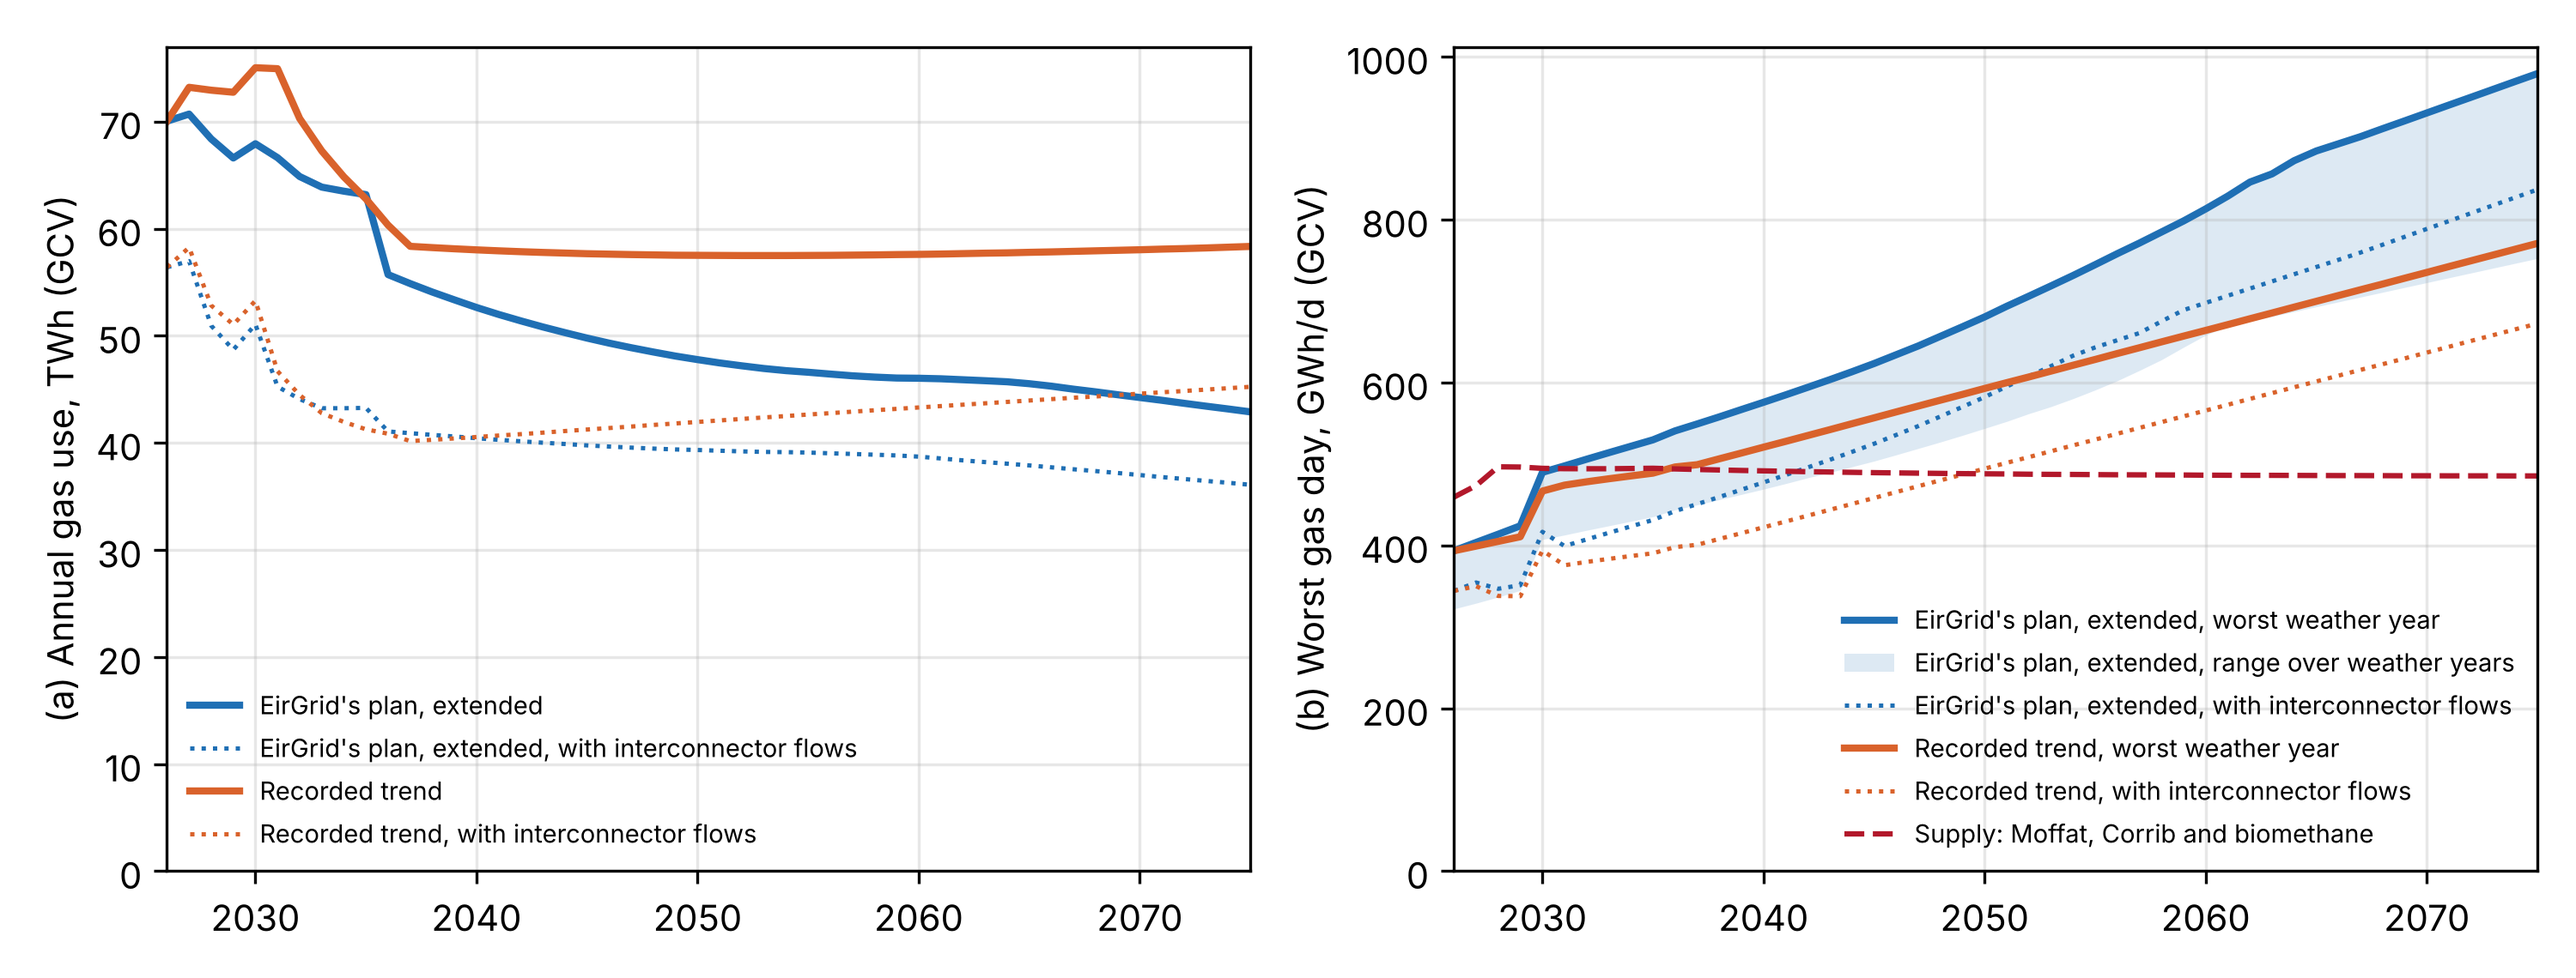
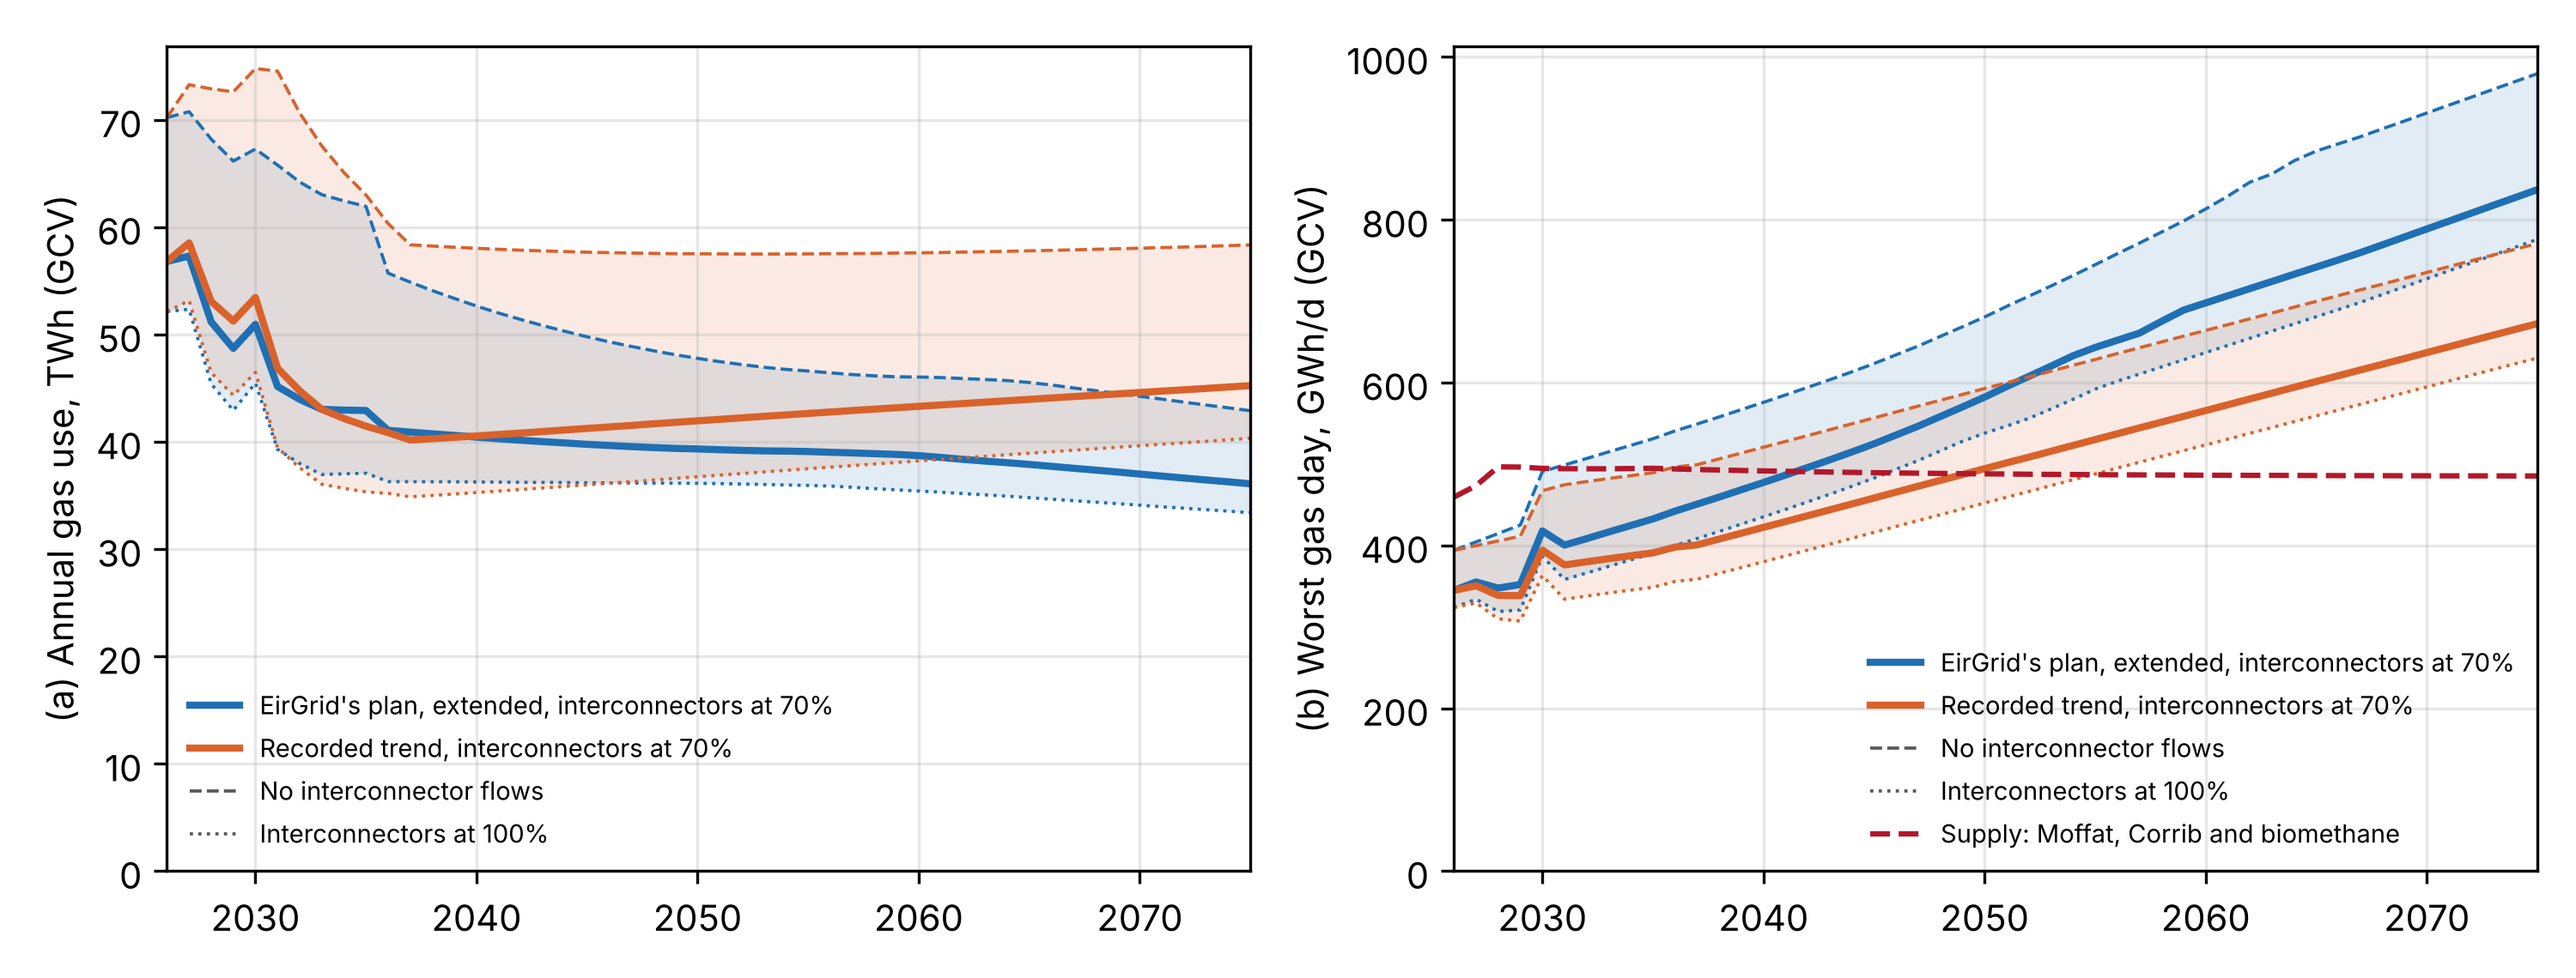
Interconnector sensitivity results to 2075; Figure 8 redrawn; changelog entry
Six runs on main (69e114e). The 2035 and 2050 rows are unchanged. No model change.

Claude-Session: https://claude.ai/code/session_011KZyoczEHupjdbef4DdDhJ

diff --git a/analysis/output/interconnector_sensitivity.md b/analysis/output/interconnector_sensitivity.md
@@ -1,17 +1,29 @@
-| pathway          |   ic_availability_pct |   year |   ic_capacity_GW |   import_TWh |   export_TWh |   export_wind_solar_TWh |   dispatch_down_pct |   firm_generation_TWh |   fossil_primary_TWh |   fossil_share_primary_pct |   gas_worst_day_GWh |   gas_supply_GWh_per_day |   gas_days_short | first_gas_shortfall_year   |
-|:-----------------|----------------------:|-------:|-----------------:|-------------:|-------------:|------------------------:|--------------------:|----------------------:|---------------------:|---------------------------:|--------------------:|-------------------------:|-----------------:|:---------------------------|
-| EirGrid_Extended |                     0 |   2035 |              2.9 |          0   |          0   |                     0   |                23   |                  20.5 |                149.5 |                       74.8 |                 531 |                      495 |              0.9 | 2031                       |
-| EirGrid_Extended |                     0 |   2050 |              2.9 |          0   |          0   |                     0   |                28.2 |                  14.2 |                118.9 |                       59.9 |                 680 |                      488 |              7.6 | 2031                       |
-| EirGrid_Extended |                    70 |   2035 |              2.9 |          9.8 |          1.6 |                     1.6 |                21.2 |                  11.4 |                133.3 |                       73.1 |                 432 |                      495 |              0   | 2042                       |
-| EirGrid_Extended |                    70 |   2050 |              2.9 |          4.3 |          5.4 |                     5.4 |                23.4 |                  11.3 |                114.3 |                       59.4 |                 582 |                      488 |              1.5 | 2042                       |
-| EirGrid_Extended |                   100 |   2035 |              2.9 |         12.9 |          2   |                     2   |                20.6 |                   8.4 |                128   |                       72.5 |                 390 |                      495 |              0   | 2046                       |
-| EirGrid_Extended |                   100 |   2050 |              2.9 |          5.8 |          7.5 |                     7.5 |                21.2 |                  10   |                112.4 |                       59.1 |                 538 |                      488 |              0.7 | 2046                       |
-| Historical_Trend |                     0 |   2035 |              2.9 |          0   |          0   |                     0   |                17.2 |                  20.9 |                156.4 |                       78.7 |                 489 |                      495 |              0   | 2036                       |
-| Historical_Trend |                     0 |   2050 |              2.9 |          0   |          0   |                     0   |                17.9 |                  19.3 |                143.2 |                       70.3 |                 593 |                      488 |              2.5 | 2036                       |
-| Historical_Trend |                    70 |   2035 |              2.9 |         11.1 |          1.3 |                     1.3 |                15.2 |                  10.4 |                137.4 |                       77   |                 391 |                      495 |              0   | 2050                       |
-| Historical_Trend |                    70 |   2050 |              2.9 |          8   |          3.3 |                     3.3 |                13.3 |                  12.3 |                130.7 |                       68.9 |                 494 |                      488 |              0.1 | 2050                       |
-| Historical_Trend |                   100 |   2035 |              2.9 |         14.5 |          1.5 |                     1.5 |                14.9 |                   7.1 |                131.6 |                       76.4 |                 349 |                      495 |              0   | none by 2050               |
-| Historical_Trend |                   100 |   2050 |              2.9 |         10.7 |          4.4 |                     4.4 |                11.6 |                   9.7 |                126.4 |                       68.3 |                 452 |                      488 |              0   | none by 2050               |
+| pathway          |   ic_availability_pct |   year |   ic_capacity_GW |   import_TWh |   export_TWh |   export_wind_solar_TWh |   dispatch_down_pct |   firm_generation_TWh |   fossil_primary_TWh |   fossil_share_primary_pct |   gas_annual_TWh_GCV |   gas_worst_day_GWh |   gas_worst_day_power_GWh |   gas_supply_GWh_per_day |   gas_days_short |   first_gas_shortfall_year |
+|:-----------------|----------------------:|-------:|-----------------:|-------------:|-------------:|------------------------:|--------------------:|----------------------:|---------------------:|---------------------------:|---------------------:|--------------------:|--------------------------:|-------------------------:|-----------------:|---------------------------:|
+| EirGrid_Extended |                     0 |   2026 |             1.45 |          0   |          0   |                     0   |                15.2 |                  25.6 |                170.8 |                       86   |                 70.2 |                 394 |                       247 |                      459 |              0   |                       2031 |
+| EirGrid_Extended |                     0 |   2035 |             2.9  |          0   |          0   |                     0   |                23   |                  20.5 |                149.5 |                       74.8 |                 61.9 |                 531 |                       402 |                      495 |              0.9 |                       2031 |
+| EirGrid_Extended |                     0 |   2050 |             2.9  |          0   |          0   |                     0   |                28.2 |                  14.2 |                118.9 |                       59.9 |                 47.8 |                 680 |                       563 |                      488 |              7.6 |                       2031 |
+| EirGrid_Extended |                     0 |   2075 |             2.9  |          0   |          0   |                     0   |                37.8 |                  13.3 |                 87.4 |                       42.3 |                 42.9 |                 979 |                       904 |                      485 |             18.7 |                       2031 |
+| EirGrid_Extended |                    70 |   2026 |             1.45 |          6.8 |          0.5 |                     0.4 |                15.2 |                  19.3 |                159.2 |                       85.5 |                 56.8 |                 345 |                       198 |                      459 |              0   |                       2042 |
+| EirGrid_Extended |                    70 |   2035 |             2.9  |          9.8 |          1.6 |                     1.6 |                21.2 |                  11.4 |                133.3 |                       73.1 |                 42.9 |                 432 |                       304 |                      495 |              0   |                       2042 |
+| EirGrid_Extended |                    70 |   2050 |             2.9  |          4.3 |          5.4 |                     5.4 |                23.4 |                  11.3 |                114.3 |                       59.4 |                 39.3 |                 582 |                       465 |                      488 |              1.5 |                       2042 |
+| EirGrid_Extended |                    70 |   2075 |             2.9  |          2.4 |          7.2 |                     7.2 |                34.1 |                  12.8 |                 85.8 |                       42.2 |                 36.1 |                 837 |                       761 |                      485 |              9.7 |                       2042 |
+| EirGrid_Extended |                   100 |   2026 |             1.45 |          9.1 |          0.6 |                     0.4 |                15.2 |                  17.1 |                155.1 |                       85.3 |                 52.1 |                 324 |                       177 |                      459 |              0   |                       2046 |
+| EirGrid_Extended |                   100 |   2035 |             2.9  |         12.9 |          2   |                     2   |                20.6 |                   8.4 |                128   |                       72.5 |                 37.1 |                 390 |                       262 |                      495 |              0   |                       2046 |
+| EirGrid_Extended |                   100 |   2050 |             2.9  |          5.8 |          7.5 |                     7.5 |                21.2 |                  10   |                112.4 |                       59.1 |                 36.1 |                 538 |                       423 |                      488 |              0.7 |                       2046 |
+| EirGrid_Extended |                   100 |   2075 |             2.9  |          3.3 |         10.2 |                    10.2 |                32.4 |                  12.3 |                 84.3 |                       41.9 |                 33.4 |                 776 |                       700 |                      485 |              7.5 |                       2046 |
+| Historical_Trend |                     0 |   2026 |             1.45 |          0   |          0   |                     0   |                15.2 |                  25.6 |                170.8 |                       86   |                 70.2 |                 394 |                       247 |                      459 |              0   |                       2036 |
+| Historical_Trend |                     0 |   2035 |             2.9  |          0   |          0   |                     0   |                17.2 |                  20.9 |                156.4 |                       78.7 |                 63   |                 489 |                       352 |                      495 |              0   |                       2036 |
+| Historical_Trend |                     0 |   2050 |             2.9  |          0   |          0   |                     0   |                17.9 |                  19.3 |                143.2 |                       70.3 |                 57.5 |                 593 |                       456 |                      488 |              2.5 |                       2036 |
+| Historical_Trend |                     0 |   2075 |             2.9  |          0   |          0   |                     0   |                21.3 |                  21.8 |                130.8 |                       60.4 |                 58.3 |                 771 |                       659 |                      485 |             12.2 |                       2036 |
+| Historical_Trend |                    70 |   2026 |             1.45 |          6.8 |          0.5 |                     0.4 |                15.2 |                  19.3 |                159.2 |                       85.5 |                 56.8 |                 345 |                       198 |                      459 |              0   |                       2050 |
+| Historical_Trend |                    70 |   2035 |             2.9  |         11.1 |          1.3 |                     1.3 |                15.2 |                  10.4 |                137.4 |                       77   |                 41.4 |                 391 |                       254 |                      495 |              0   |                       2050 |
+| Historical_Trend |                    70 |   2050 |             2.9  |          8   |          3.3 |                     3.3 |                13.3 |                  12.3 |                130.7 |                       68.9 |                 42   |                 494 |                       358 |                      488 |              0.1 |                       2050 |
+| Historical_Trend |                    70 |   2075 |             2.9  |          6.6 |          3.9 |                     3.9 |                17.8 |                  16.4 |                121.3 |                       59   |                 45.2 |                 672 |                       560 |                      485 |              4.4 |                       2050 |
+| Historical_Trend |                   100 |   2026 |             1.45 |          9.1 |          0.6 |                     0.4 |                15.2 |                  17.1 |                155.1 |                       85.3 |                 52.1 |                 324 |                       177 |                      459 |              0   |                       2055 |
+| Historical_Trend |                   100 |   2035 |             2.9  |         14.5 |          1.5 |                     1.5 |                14.9 |                   7.1 |                131.6 |                       76.4 |                 35.3 |                 349 |                       212 |                      495 |              0   |                       2055 |
+| Historical_Trend |                   100 |   2050 |             2.9  |         10.7 |          4.4 |                     4.4 |                11.6 |                   9.7 |                126.4 |                       68.3 |                 36.7 |                 452 |                       316 |                      488 |              0   |                       2055 |
+| Historical_Trend |                   100 |   2075 |             2.9  |          9.1 |          5.3 |                     5.3 |                16.2 |                  14.1 |                117.5 |                       58.4 |                 40.3 |                 630 |                       518 |                      485 |              1.8 |                       2055 |
 
 EirGrid_Extended: no main run in scenario_outputs/, 0% case not checked
 Historical_Trend: no main run in scenario_outputs/, 0% case not checked

diff --git a/CHANGELOG.md b/CHANGELOG.md
@@ -3,6 +3,22 @@
 Handover record of changes to `DemonstratorV2.py` and its data builder `build_all_island_dd.py`.
 The full methodology is in `Technical_Briefing_README.docx`.
 
+## Interconnector sensitivity to 2075; Figure 8 redrawn from it: 11 November 2026
+
+No model change. `analysis/interconnector_sensitivity.py` now runs to 2075 and reports annual gas use and gas for power on the worst day. The 2035 and 2050 rows are unchanged from the entry below (checked: no difference in any column). `analysis/figure8_gas.py` now draws paper Figure 8 from these runs: solid line interconnectors at 70% of capacity, shading from no flows (dashed) to 100% (dotted). Its usage is now `python analysis/figure8_gas.py analysis/ic_run/scenario_outputs <out.png> [end year]`.
+
+Historical_Trend at 100% first exceeds supply in 2055 (the run to 2050 reported "none by 2050").
+
+| All-island, 0% / 70% / 100% of interconnector capacity | 2026 | 2035 | 2050 | 2075 |
+|---|---|---|---|---|
+| EirGrid_Extended, worst gas day (GWh/d) | 394 / 345 / 324 | 531 / 432 / 390 | 680 / 582 / 538 | 979 / 837 / 776 |
+| Historical_Trend, worst gas day (GWh/d) | 394 / 345 / 324 | 489 / 391 / 349 | 593 / 494 / 452 | 771 / 672 / 630 |
+| EirGrid_Extended, annual gas use (TWh GCV) | 70.2 / 56.8 / 52.1 | 61.9 / 42.9 / 37.1 | 47.8 / 39.3 / 36.1 | 42.9 / 36.1 / 33.4 |
+| Historical_Trend, annual gas use (TWh GCV) | 70.2 / 56.8 / 52.1 | 63.0 / 41.4 / 35.3 | 57.5 / 42.0 / 36.7 | 58.3 / 45.2 / 40.3 |
+| Gas supply (GWh/d) | 459 | 495 | 488 | 485 |
+
+Check against Gas Networks Ireland's Network Development Plan 2025 (Best Estimate, Tables A2-2 and A2-8): annual demand 77.7 TWh in 2025/26 and 56.8 TWh in 2034/35, 1-in-50 peak day 469 GWh/d in 2034/35. For annual gas use the run with no flows is the nearer one (70.2 and 61.9 TWh); the 70% run is 27% below GNI in 2026. For the peak day in 2035 GNI lies between the no-flow and 70% runs. The 70% case is therefore used as the central case for the worst day only; annual gas use in the paper stays on the main runs. On Historical_Trend annual gas use stops falling in the late 2030s in every case.
+
 ## Interconnector sensitivity at 0%, 70% and 100%: 11 November 2026
 
 No model change. New script `analysis/interconnector_sensitivity.py` runs EirGrid_Extended and Historical_Trend to 2050 with interconnector flows in the 15-minute dispatch (`GAMMA_IC_DISPATCH=1`) at 0%, 70% and 100% of interconnector capacity, the same share for imports and exports. It replaces the 50% export / 70% import pair quoted in paper Sections 7.3 and 7.5. Capacity is Gamma's: 1,450 MW existing, Celtic 700 MW from April 2028, MaresConnect 750 MW from 2031. Outputs in `analysis/output/interconnector_sensitivity.csv` and `.md`.
